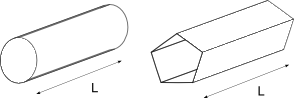
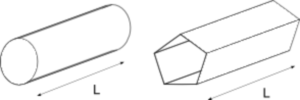
resize documentation images change computation of hydraulic diameter for surfaces

diff --git a/include/ngogeo/NgoGeoSurface.h b/include/ngogeo/NgoGeoSurface.h
@@ -134,7 +134,12 @@ protected :
    {
       if (isHydDiamUserDef())
          hydraulicDiameter = sqrt(fabs(mainModule() )) * hydraulicDiameter.modulated();
-      hydraulicDiameter = 4. * surface() / perimeter();
+	  else 
+	  {
+		  surface.update();
+		  perimeter.update();
+	      hydraulicDiameter = 4. * surface() / perimeter();
+	  }
    };
    /*! @brief virtual method to actually compute suerface */
    void doCalcSurface() { surface = mainModule() * doComputeSurface(); };
